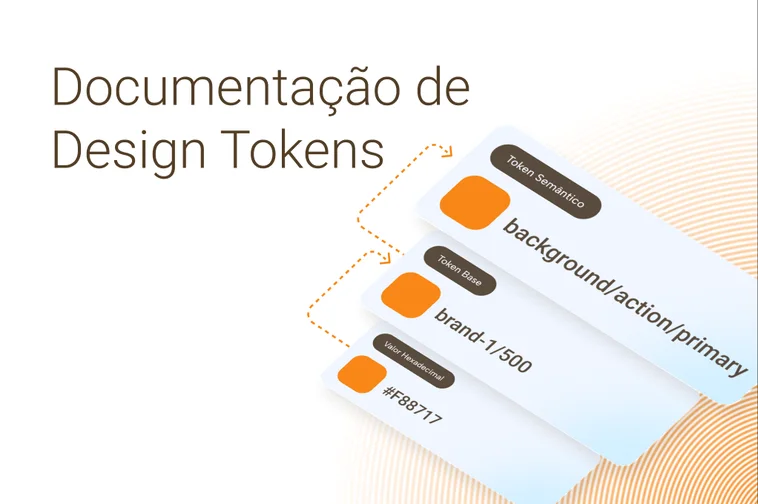
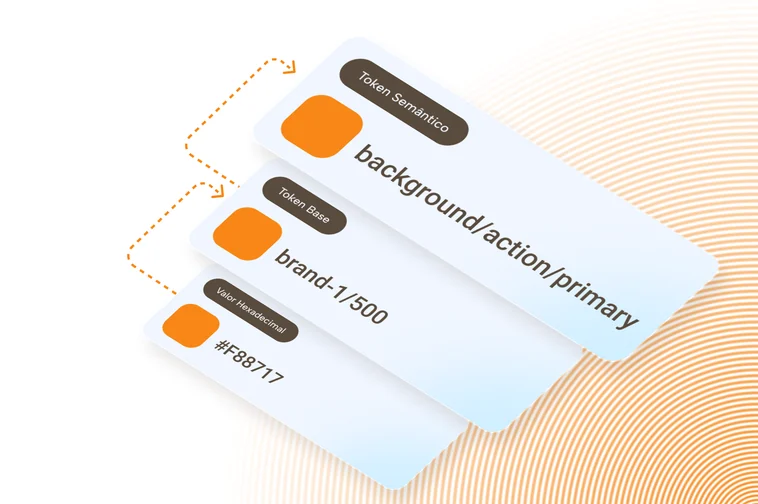
Card Design Tokens: nova imagem do Figma
Claude-Session: https://claude.ai/code/session_01DSpZ7MVgSkQvqPVGGdUg2h

diff --git a/src/data/projects.ts b/src/data/projects.ts
@@ -41,7 +41,7 @@ export const projects: Project[] = [
     description: PROVISIONAL_DESCRIPTION,
     category: 'Design System',
     cover: '/images/projects/design-tokens/cover.webp',
-    coverAlt: 'Documentação de Design Tokens: valor hexadecimal, token base e token semântico ligados por setas',
+    coverAlt: 'Cartões de token ligados por setas: valor hexadecimal #F88717, token base brand-1/500 e token semântico background/action/primary',
     status: 'soon',
   },
   {
